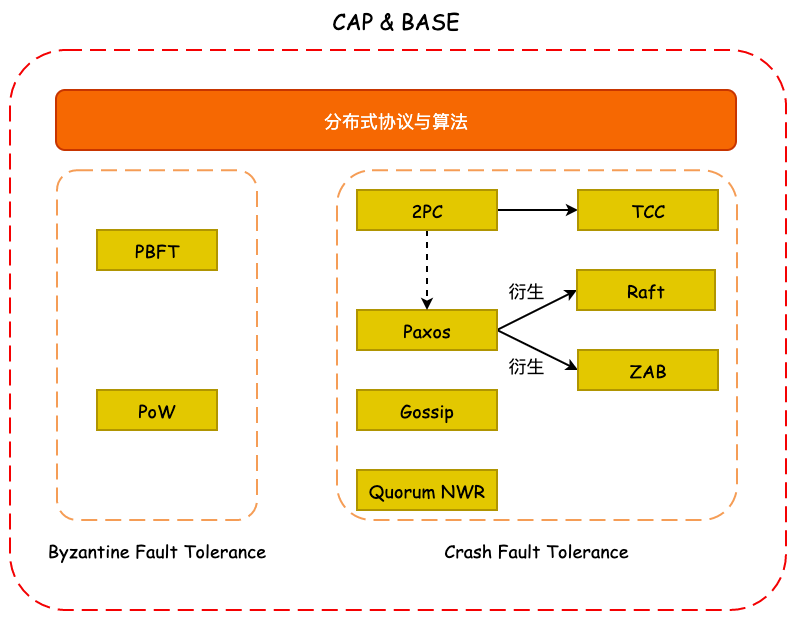
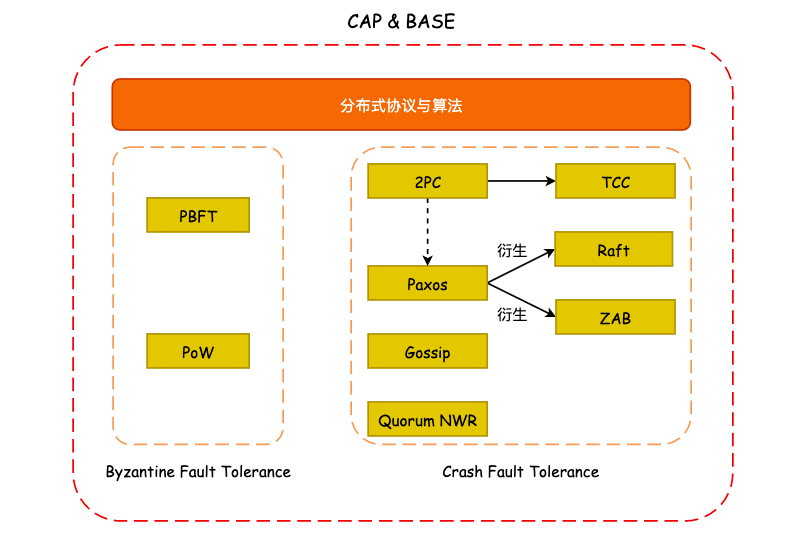
:art: update image size

diff --git a/README.md b/README.md
@@ -61,7 +61,7 @@
 
 ### 分布式协议与算法
 
-<!-- ![](Distributed-System/roadmap.png) -->
+![](Distributed-System/roadmap.png)
 
 - [拜占庭将军问题（共识）](https://smartkeyerror.oss-cn-shenzhen.aliyuncs.com/Phyduck/distributed-system/%E6%8B%9C%E5%8D%A0%E5%BA%AD%E5%B0%86%E5%86%9B%E9%97%AE%E9%A2%98.pdf)
 - [Basic Paxos](https://smartkeyerror.oss-cn-shenzhen.aliyuncs.com/Phyduck/distributed-system/Basic%20Paxos.pdf)
